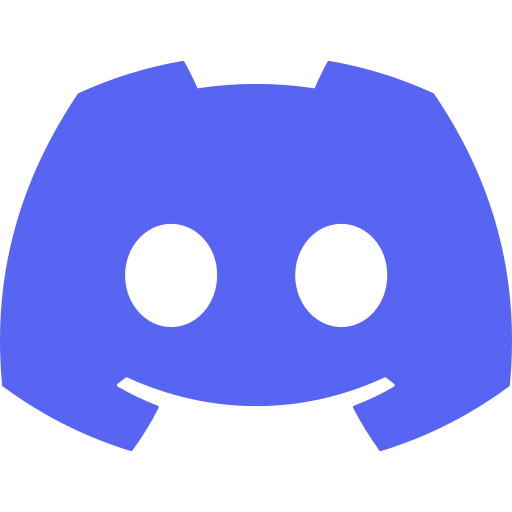
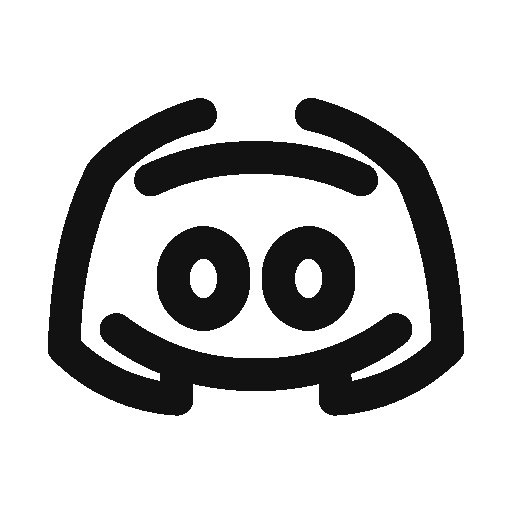
Added new animations + button images

diff --git a/index.html b/index.html
@@ -16,19 +16,24 @@
     
     <div id = "bottom-icons-div" class = "bottom-icons">
         <div id = "bottom-btn-1-div">
-            <button id = "bottom-btn-1" onMouseOver = "changeButtonColor(1)" onMouseOut = "resetButtonColor()">a</button>
+            <button class = "icon instagram" id = "bottom-btn-1" onMouseOver = "changeButtonColor(1)" onMouseOut = "resetButtonColor()" onClick = "redirect('instagram')">
+                
+            </button>
         </div>
         <div id = "bottom-btn-2-div">
-            <button id = "bottom-btn-2" onMouseOver = "changeButtonColor(2)" onMouseOut = "resetButtonColor()">b</button>
+            <button class = "icon twitter" id = "bottom-btn-2" onMouseOver = "changeButtonColor(2)" onMouseOut = "resetButtonColor()" onClick = "redirect('twitter')">
+                
+            </button>
         </div>
         <div id = "bottom-btn-3-div">
-            <button id = "bottom-btn-3" onMouseOver = "changeButtonColor(3)" onMouseOut = "resetButtonColor()">c</button>
+            <button class = "icon facebook" id = "bottom-btn-3" onMouseOver = "changeButtonColor(3)" onMouseOut = "resetButtonColor()" onClick = "redirect('facebook')">
+                
+            </button>
         </div>
         <div id = "bottom-btn-4-div">
-            <button id = "bottom-btn-4" onMouseOver = "changeButtonColor(4)" onMouseOut = "resetButtonColor()">d</button>
-        </div>
-        <div id = "bottom-btn-5-div">
-            <button id = "bottom-btn-5" onMouseOver = "changeButtonColor(5)" onMouseOut = "resetButtonColor()">e</button>
+            <button class = "icon discord" id = "bottom-btn-4" onMouseOver = "changeButtonColor(4)" onMouseOut = "resetButtonColor()" onClick = "redirect('discord')">
+                
+            </button>
         </div>
     </div>
 

diff --git a/home.css b/home.css
@@ -7,7 +7,7 @@
 :root {
     --background: rgb(18, 19, 18);
     --color1: #ccc;
-    --color2: rgb(244, 238, 231);
+    --color2: #fff;
 }
 
 
@@ -16,7 +16,7 @@ body {
     width: 100%; height: 100%;
     overflow: hidden;
     background-color: var(--background);
-    color: #fff;
+    color: var(--color2);
     display: flex;
     justify-content: center;
 }
@@ -133,4 +133,26 @@ body {
     100% {
         transform: translateY(0);
     }
+}
+
+
+.icon {
+    background-position: center;
+    background-repeat: no-repeat;
+    background-size: 2vh;
+}
+
+
+.discord {
+    background-image: url('assets/discord.png');
+    background-size: 3vh !important;
+}
+.facebook {
+    background-image: url('assets/facebook.png');
+}
+.instagram {
+    background-image: url('assets/instagram.png');
+}
+.twitter {
+    background-image: url('assets/twitter.png');
 }

diff --git a/home.js b/home.js
@@ -31,3 +31,8 @@ function resetButtonColor() {
         document.getElementById(`bottom-btn-${i}`).style.opacity = 1;
     }
 }
+
+
+function redirect(website) {
+    window.location.href = `http://www.${website}.com`
+}
